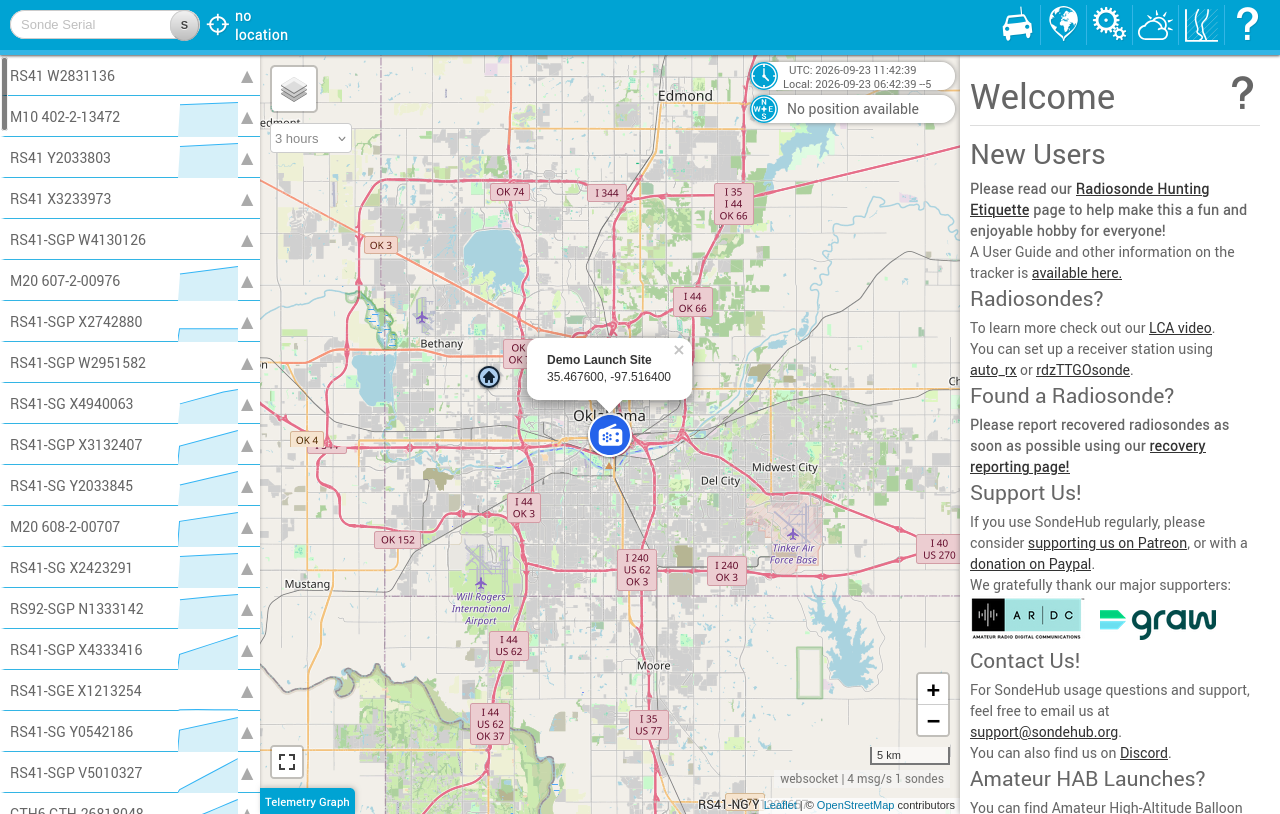
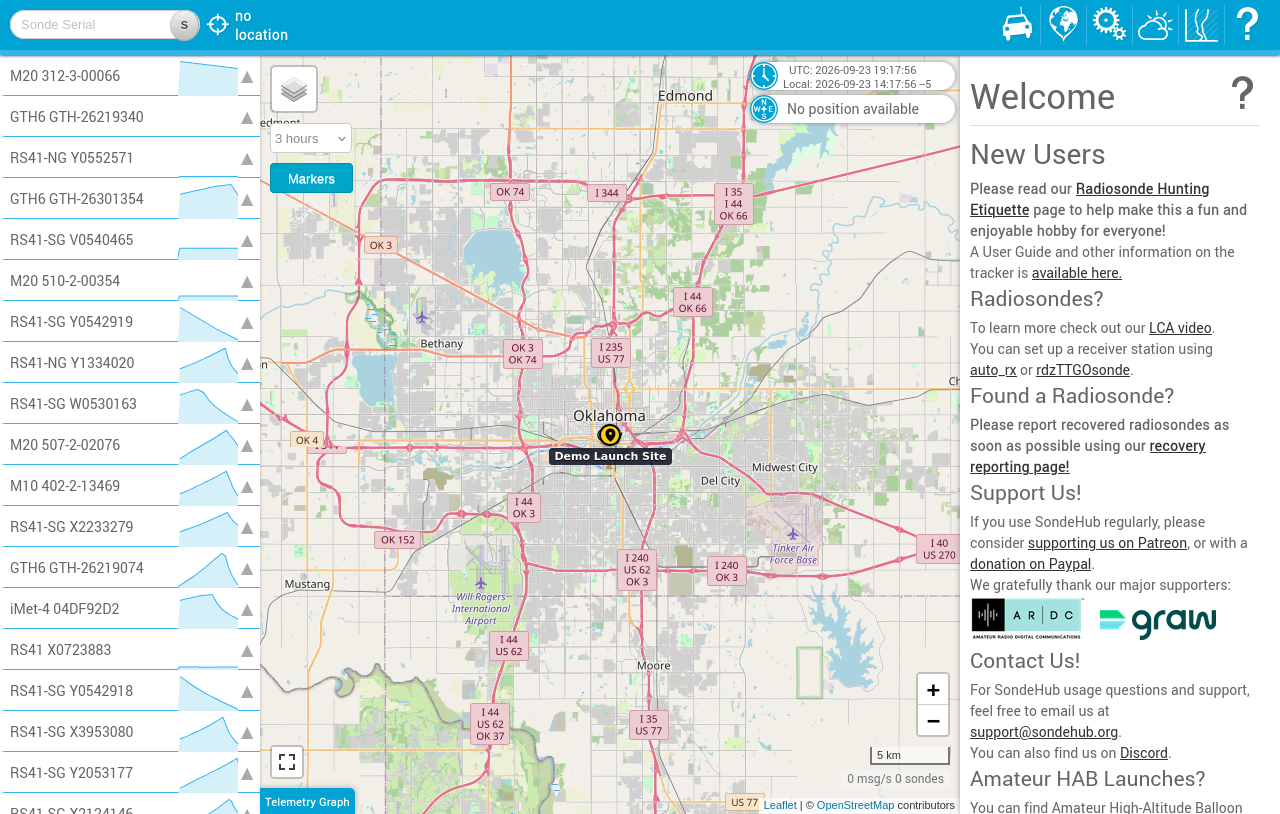
Finalize v1.6.4 publication materials

diff --git a/README.md b/README.md
@@ -1,6 +1,6 @@
 # SondeHub Custom Locations
 
-A privacy-focused Firefox WebExtension that adds persistent personal markers to the public [SondeHub Tracker](https://tracker.sondehub.org/) and [SondeHub Amateur](https://amateur.sondehub.org/) maps.
+A privacy-focused Firefox WebExtension that adds persistent custom markers on the supported SondeHub map hosts: [SondeHub Tracker](https://tracker.sondehub.org/), [sondehub.org](https://sondehub.org/), and [SondeHub Amateur](https://amateur.sondehub.org/).
 
 This is an independent community project. It is not affiliated with, sponsored by, or endorsed by SondeHub.
 
@@ -8,7 +8,7 @@ This is an independent community project. It is not affiliated with, sponsored b
 - **Firefox for Android:** 142 or newer
 - **Current version:** 1.6.4
 - **License:** MIT
-- **Status:** prepared for AMO submission; no Mozilla-signed public release yet
+- **Status:** source and unsigned review artifacts are prepared for AMO submission; no Mozilla-signed release is available yet
 
 [![CI](https://github.com/Mason10198/sondehub-custom-locations/actions/workflows/ci.yml/badge.svg)](https://github.com/Mason10198/sondehub-custom-locations/actions/workflows/ci.yml)
 [![License: MIT](https://img.shields.io/badge/License-MIT-blue.svg)](LICENSE)
@@ -41,6 +41,8 @@ The extension has no project-operated backend, account, analytics, telemetry, re
 - Synchronizes locations between desktop Firefox profiles signed in to the same Firefox account with extension syncing enabled.
 - Exports and imports portable CSV backups on desktop and mobile.
 - Provides synchronized defaults for icon, colors, and circle diameter.
+- Hides marker names by default, reveals them on hover, and provides an **Always show names** preference.
+- Keeps custom locations below SondeHub sondes and chase cars, with a map-native toggle below the time-window selector.
 - Lets individual markers override any appearance setting while inherited markers follow future default changes.
 - Imports CSV files with required `name,lat,long` columns and optional appearance override columns in **add** or **replace all** mode.
 - Reports skipped CSV rows with their source row number and validation error.
@@ -189,7 +191,7 @@ What these commands do:
 The packaging script:
 
 - Reads the version from `manifest.json`.
-- Includes only 15 allowlisted runtime and license files. The 316 source SVGs stay in the repository for provenance checks but are not duplicated in the XPI because the generated local catalog already contains them.
+- Includes only 12 allowlisted runtime and license files. The 316 source SVGs stay in the repository for provenance checks but are not duplicated in the XPI because the generated local catalog already contains them.
 - Refuses symlinks and special files.
 - Sorts archive paths and uses fixed ZIP timestamps for deterministic output.
 - Produces an **unsigned** XPI. Renaming or building an XPI does not sign it.
@@ -217,7 +219,7 @@ The prepared listing and reviewer notes are in [`AMO_LISTING.md`](AMO_LISTING.md
 
 For a Mozilla-signed self-distributed desktop build, open `about:addons`, use the gear menu, choose **Install Add-on From File…**, and select the signed XPI. Standard Firefox Release and Beta do not normally install an unsigned XPI persistently.
 
-The committed Gecko ID is stable and should not change after publishing. The manifest declares `browser_specific_settings.gecko.data_collection_permissions.required: ["none"]` because the developer does not collect or receive user data. Firefox Sync transport is controlled by Firefox and the user's Mozilla account, not by this extension or its developer.
+The committed Gecko ID is stable and should not change after publishing. The manifest declares `browser_specific_settings.gecko.data_collection_permissions.required: ["locationInfo"]` because saved marker coordinates can be transported by Firefox Sync. The developer does not operate that transport or receive synchronized data.
 
 Never commit AMO API credentials, signing keys, browser profiles, or real personal-location exports.
 
@@ -255,7 +257,7 @@ Firefox for Android does not synchronize WebExtension `storage.sync` data. Use *
 On a real device, verify:
 
 1. Options-page add, edit, import, and delete behavior.
-2. Marker rendering and the **Custom locations** layer on each supported SondeHub host.
+2. Marker rendering and the **Markers** toggle on each supported SondeHub host.
 3. Live updates without reloading the map.
 4. Full Firefox restart and storage persistence using the signed persistent installation.
 
@@ -265,7 +267,7 @@ On a real device, verify:
 
 - Confirm the tab is on `tracker.sondehub.org`, `sondehub.org`, or `amateur.sondehub.org`.
 - Wait for the SondeHub Leaflet map to finish loading.
-- Check the map's layer control for **Custom locations**. If the site does not expose a layer selector, the extension still attempts to add its layer directly.
+- Confirm the cyan **Markers** button appears below the time-window selector and is enabled.
 - Open the options page and confirm the location has valid decimal coordinates.
 - Reload the temporary add-on in `about:debugging`, then reload the map tab.
 - The extension stores and renders at most 250 locations. It also checks Firefox Sync's per-item and total byte quotas before writing, so unusually large migrated records or long escaped names may reach the storage limit sooner.
@@ -298,14 +300,14 @@ On a real device, verify:
 
 ## Privacy and permissions
 
-- **API permission:** only `storage`, used for browser-managed desktop sync and local Android storage.
-- **Page access:** one isolated content script matches only `tracker.sondehub.org`, `sondehub.org`, and `amateur.sondehub.org`; no separate `host_permissions` block is requested.
+- **API permission:** `storage`, used for browser-managed desktop sync and local Android storage.
+- **Page access:** one isolated content script matches only `tracker.sondehub.org`, `sondehub.org`, and `amateur.sondehub.org`; the extension does not declare a separate `host_permissions` block.
 - No project backend, developer account system, analytics, telemetry, tracking, cloud database, CDN, external options-page links, remotely loaded resources, or direct extension network requests.
 - On desktop, Firefox itself may transmit extension storage through the user's Firefox Sync account. The extension does not choose the server, hold credentials, or receive the data.
 - Extension pages use a restrictive content security policy with `connect-src 'none'` and local-only scripts and styles.
 - The AMO built-in consent declaration is `locationInfo` because saved coordinates can be transported by Firefox Sync. The developer does not receive that data.
 - Default appearance and location records synchronize through the same browser-managed storage area.
-- Deleting all locations removes location records but preserves the selected default icon, colors, and circle diameter.
+- Deleting all locations removes location records but preserves the selected default icon, colors, circle diameter, and label-visibility preference.
 - Firefox account, profile backup, Sync, clearing, and removal behavior remains controlled by Firefox.
 
 ### Supported-page boundary
@@ -316,7 +318,7 @@ The page can detect, hide, or reposition the generic host and toggle button beca
 
 ## Architecture and repository layout
 
-The extension avoids SondeHub's page JavaScript and uses two isolated components:
+The extension avoids SondeHub's page JavaScript and keeps marker storage and rendering inside Firefox's isolated content-script world:
 
 1. `src/content/map-overlay-host.js` runs in Firefox's isolated content-script world and privately reads validated `browser.storage.sync` records.
 2. It renders markers into a retained closed shadow root mounted in Leaflet's map pane. Panning is inherited directly from that pane, while tile-container zoom transforms are mirrored before paint; no frame-by-frame viewport sampling is required.
@@ -339,14 +341,14 @@ third_party/heroicons/ Pinned Heroicons source and upstream license
 
 ## Limitations
 
-- SondeHub Tracker and Amateur are third-party applications. A change to their map element or XYZ Leaflet tile layout may require a viewport adapter update.
+- The supported SondeHub sites are third-party applications. A change to their map element or XYZ Leaflet tile layout may require an adapter update.
 - Address geocoding is not included; enter decimal coordinates directly.
 - Firefox Sync must be enabled for extensions on each desktop profile. Propagation is asynchronous and requires the same signed extension ID.
 - Firefox for Android does not synchronize WebExtension storage; use CSV backup and restore there.
 - Storage mutations are serialized within one extension context and single-marker changes write only that marker's Sync record. Concurrent edits to the same marker on different desktops can still resolve by Firefox Sync's conflict behavior.
 - Locations imported without appearance overrides and locations saved without enabled overrides inherit the synchronized defaults. Imported nonblank appearance values and enabled editor overrides remain fixed.
 - During migration, legacy Map pin and black-on-yellow values become inherited; legacy nondefault appearance values remain overrides.
-- The extension stores and renders at most 250 locations, checks Firefox Sync's per-item and total byte quotas before each write, and bounds page-world and Leaflet work.
+- The extension stores and renders at most 250 locations, checks Firefox Sync's per-item and total byte quotas before each write, and bounds DOM and Leaflet work.
 - Firefox for iOS does not run Firefox WebExtensions. Supporting iPhone or iPad would require a separate Safari Web Extension and Xcode application.
 
 ## Contributing and security

diff --git a/AMO_LISTING.md b/AMO_LISTING.md
@@ -8,24 +8,25 @@ SondeHub Custom Locations
 
 ## Summary
 
-Add custom location markers to SondeHub maps with Firefox Sync, CSV backup, and customizable bundled icons.
+Add persistent custom markers on supported SondeHub maps, with Firefox Sync, CSV backup, and customizable bundled icons.
 
 ## Description
 
-SondeHub Custom Locations adds a separate **Custom locations** layer to the SondeHub Tracker and Amateur maps.
+SondeHub Custom Locations adds persistent private markers on the three supported SondeHub hosts.
 
 Use the responsive options page to:
 
 - Save named latitude and longitude markers.
 - Choose from 316 bundled Heroicons.
 - Set default icon, foreground color, background color, and marker diameter.
+- Reveal names on hover or keep them visible with the **Always show names** preference.
 - Override each appearance setting independently for individual locations.
 - Synchronize locations between desktop Firefox profiles through Firefox-managed Sync.
 - Export and import portable CSV backups on desktop and Android.
 
 Only `name`, `lat`, and `long` are required when importing CSV files. Appearance columns are optional.
 
-The extension has no project-operated server, analytics, telemetry, advertising, remotely loaded resources, or direct network requests. Its only extension API permission is `storage`. Saved marker data is rendered by an isolated content script inside a closed shadow root and is not passed to SondeHub page scripts.
+The extension has no project-operated server, analytics, telemetry, advertising, remotely loaded resources, or direct network requests. It requests the `storage` API permission and content-script access only on the three supported SondeHub hosts, without a separate `host_permissions` block. Saved marker data is rendered by an isolated content script inside a closed shadow root and is not passed to SondeHub page scripts.
 
 This is an independent community project and is not affiliated with, sponsored by, or endorsed by SondeHub.
 
@@ -35,7 +36,7 @@ This is an independent community project and is not affiliated with, sponsored b
 - Support: `https://github.com/Mason10198/sondehub-custom-locations/issues`
 - Privacy policy: `https://github.com/Mason10198/sondehub-custom-locations/blob/main/PRIVACY.md`
 
-These URLs become publicly accessible when the repository is made public.
+These URLs are publicly accessible from the project repository.
 
 ## License
 
@@ -43,21 +44,20 @@ MIT
 
 ## Suggested screenshots
 
-1. Mobile options page with **Marker defaults** first.
+1. Mobile options page showing the installed marker defaults.
 2. Searchable icon chooser at a narrow viewport.
-3. Saved locations and per-location overrides.
-4. A synthetic custom marker displayed on a supported SondeHub map.
+3. A synthetic custom marker and the **Markers** toggle on a supported SondeHub map.
 
 Use synthetic marker names and coordinates. Do not upload real personal locations, browser profiles, credentials, or AMO secrets.
 
 ## Notes for reviewers
 
-- Version 1.6.4 requests only the `storage` API permission and declares required `locationInfo` for Firefox's built-in consent because browser-managed Sync can transport saved coordinates.
-- Static content scripts run only on `https://tracker.sondehub.org/*`, `https://sondehub.org/*`, and `https://amateur.sondehub.org/*`.
+- Version 1.6.4 requests the `storage` API permission and content-script access only on `https://tracker.sondehub.org/*`, `https://sondehub.org/*`, and `https://amateur.sondehub.org/*`; it does not declare a separate `host_permissions` block. Required `locationInfo` declares that browser-managed Sync can transport saved coordinates.
 - There is no project backend, developer account system, analytics, telemetry, advertising, remote code, remote assets, or direct extension networking.
 - Extension pages use a local-only CSP containing `connect-src 'none'`.
 - Desktop synchronization uses Firefox-managed `browser.storage.sync`. The developer does not operate the transport or receive synchronized data. Firefox for Android retains the same data locally, and CSV provides manual portability.
 - An isolated content script privately reads extension storage and renders markers inside a closed shadow root. Its host is mounted in Leaflet's map pane, inherits native panning, and mirrors the active tile-container zoom transform, while SondeHub page scripts cannot inspect the marker tree. No marker-data message bridge exists.
+- Custom markers render below SondeHub's sonde and chase-car marker pane. Names are hidden by default and shown only on hover unless the synchronized **Always show names** setting is enabled.
 - The only bundled third-party assets are Heroicons v2.2.0 Micro icons from commit `0435d4ca364a608cc75e2f8683d374e55abbae26`, under the MIT license. Provenance and hashes are in `THIRD_PARTY_NOTICES.md`.
 - `src/shared/icons.js` is generated deterministically from the vendored Heroicons source with `npm run generate:icons`. `npm run verify:vendor` verifies the pinned source tree.
 - `python3 scripts/package.py` creates the exact-allowlisted unsigned XPI. `npm run verify:package` builds it twice and checks archive paths, bytes, metadata, integrity, and reproducibility.

diff --git a/PUBLISHING.md b/PUBLISHING.md
@@ -22,7 +22,7 @@ This checklist prepares a source commit and unsigned XPI for Mozilla review. Moz
    git diff --check
    ```
 
-4. Record the XPI and source-archive SHA-256 values. Confirm the XPI contains only the 15 allowlisted runtime and license files.
+4. Record the XPI and source-archive SHA-256 values. Confirm the XPI contains only the 12 allowlisted runtime and license files.
 5. Test the packaged extension in a clean desktop Firefox profile, including the options page at a narrow viewport and marker rendering on each supported host.
 6. Test the packaged extension on a physical Firefox for Android device, including options-page CRUD, CSV import/export, marker rendering, narrow layouts, and a full browser restart after signed installation.
 7. Confirm the repository contains no credentials, browser profiles, personal coordinates, exported user data, or signed artifacts.
@@ -44,7 +44,7 @@ This checklist prepares a source commit and unsigned XPI for Mozilla review. Moz
 - Use the stable Gecko ID already committed in `manifest.json`.
 - Declare required `locationInfo` for Firefox's built-in consent because saved coordinates can be transported by browser-managed Sync. State that the developer does not receive synchronized data.
 - Link to the public [`PRIVACY.md`](PRIVACY.md) URL after the repository is public.
-- State that the only API permission is `storage` and explain that it stores and synchronizes marker settings.
+- State that the API permission is `storage`, explain that it stores and synchronizes marker settings, and disclose content-script access on the three supported SondeHub hosts.
 - Provide clear desktop and mobile screenshots of the options page and a supported SondeHub map.
 - Select the supported desktop and Android Firefox versions declared in the manifest.
 - Use the prepared public listing and reviewer text in [`AMO_LISTING.md`](AMO_LISTING.md).

diff --git a/SECURITY.md b/SECURITY.md
@@ -17,7 +17,7 @@ Saved marker names, icon keys, colors, circle diameters, and coordinates remain 
 Expected invariants include:
 
 - No project backend, analytics, telemetry, or direct extension network requests. Desktop synchronization is performed only by Firefox Sync under the user's Firefox account.
-- Only the documented `storage` API permission and static content-script matches for the three exact SondeHub hosts; no separate `host_permissions` declaration.
+- The documented `storage` API permission and static content-script access only on the three exact SondeHub hosts; no separate `host_permissions` declaration.
 - No MAIN-world script, page-DOM event, page-readable marker node, or storage-to-page data bridge.
 - No cross-realm message bridge; the isolated layer reads storage and renders directly into its retained closed shadow root.
 - User text rendered with DOM text APIs rather than HTML.

diff --git a/AMO_SOURCE_README.md b/AMO_SOURCE_README.md
@@ -39,7 +39,7 @@ dist/sondehub-custom-locations-1.6.4.xpi
 - The vendored Heroicons revision, license, tree hash, and upstream links are recorded in `THIRD_PARTY_NOTICES.md`.
 - `npm run verify:vendor` verifies the complete vendored tree and license.
 - `npm run generate:icons` regenerates the runtime catalog deterministically.
-- `scripts/package.py` packages an exact 15-file runtime allowlist with fixed ZIP metadata.
+- `scripts/package.py` packages an exact 12-file runtime allowlist with fixed ZIP metadata.
 - `npm run verify:package` builds twice, compares hashes, checks ZIP integrity, rejects duplicate or unexpected paths, and compares packaged bytes with source bytes.
 
 No minifier, transpiler, bundler, native compiler, or remote build service is used.

diff --git a/PRIVACY.md b/PRIVACY.md
@@ -20,11 +20,13 @@ The isolated content script reads page-visible tile geometry only to anchor the 
 
 ## Permissions
 
-The only extension API permission is `storage`. Content scripts run only on:
+The extension requests the `storage` API permission. Content scripts run only on:
 
 - `https://tracker.sondehub.org/*`
 - `https://sondehub.org/*`
 - `https://amateur.sondehub.org/*`
+
+The extension does not declare a separate `host_permissions` block.
 
 Extension pages use a content security policy that blocks network connections and remote resources.
 
